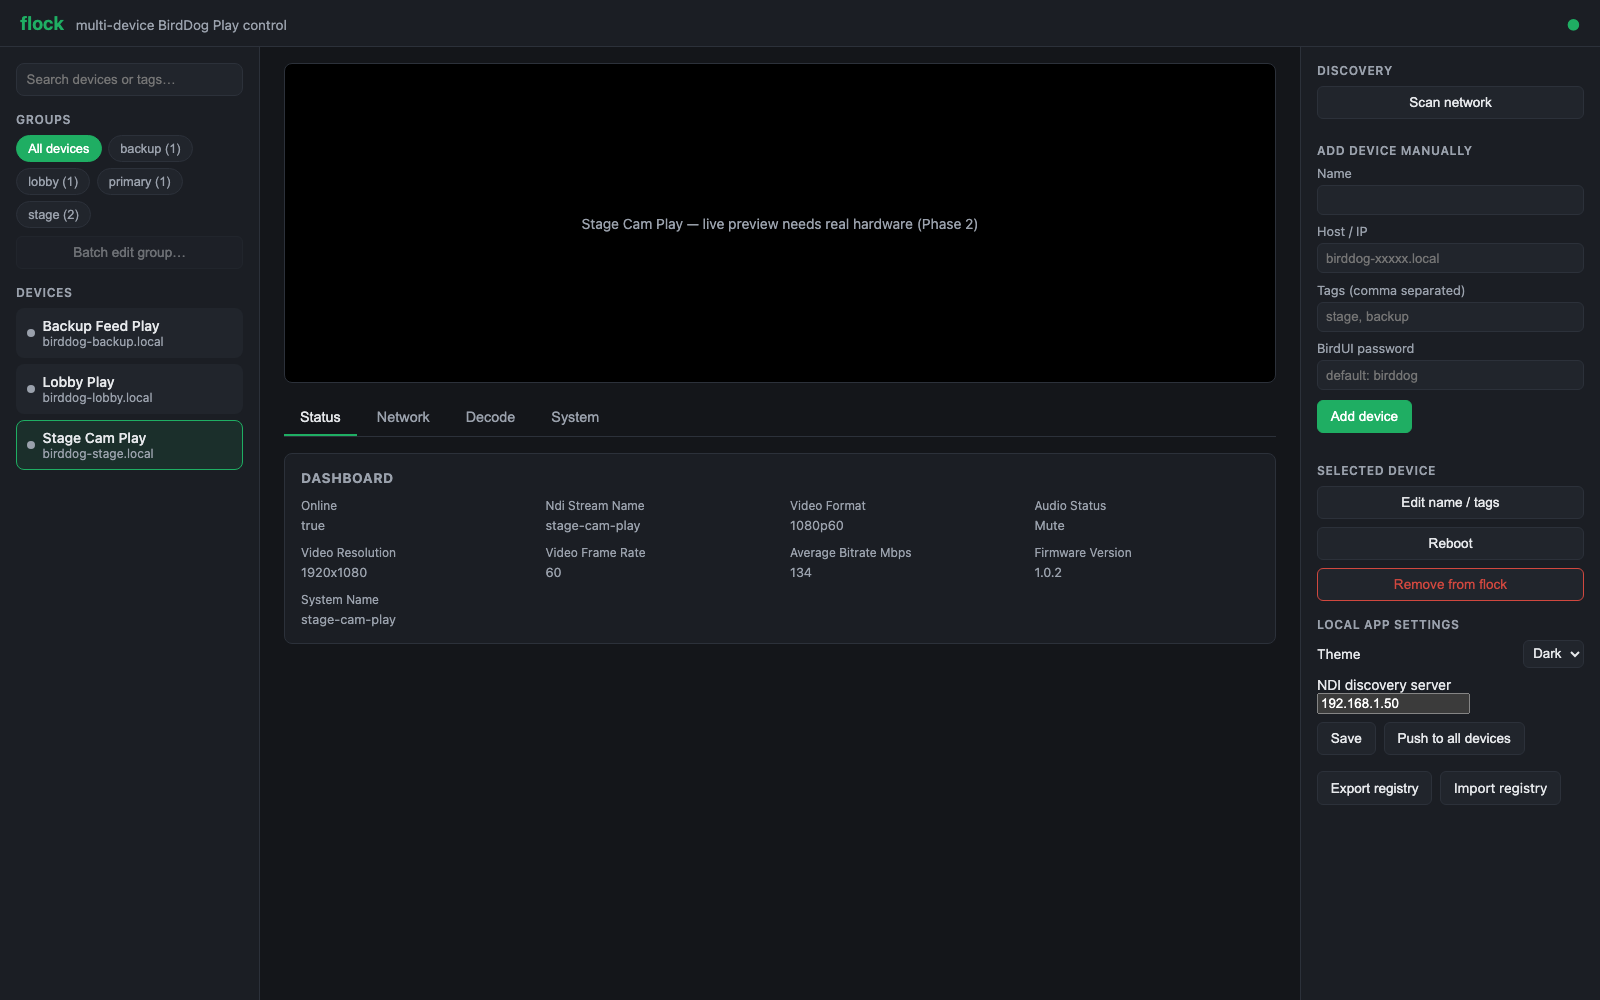
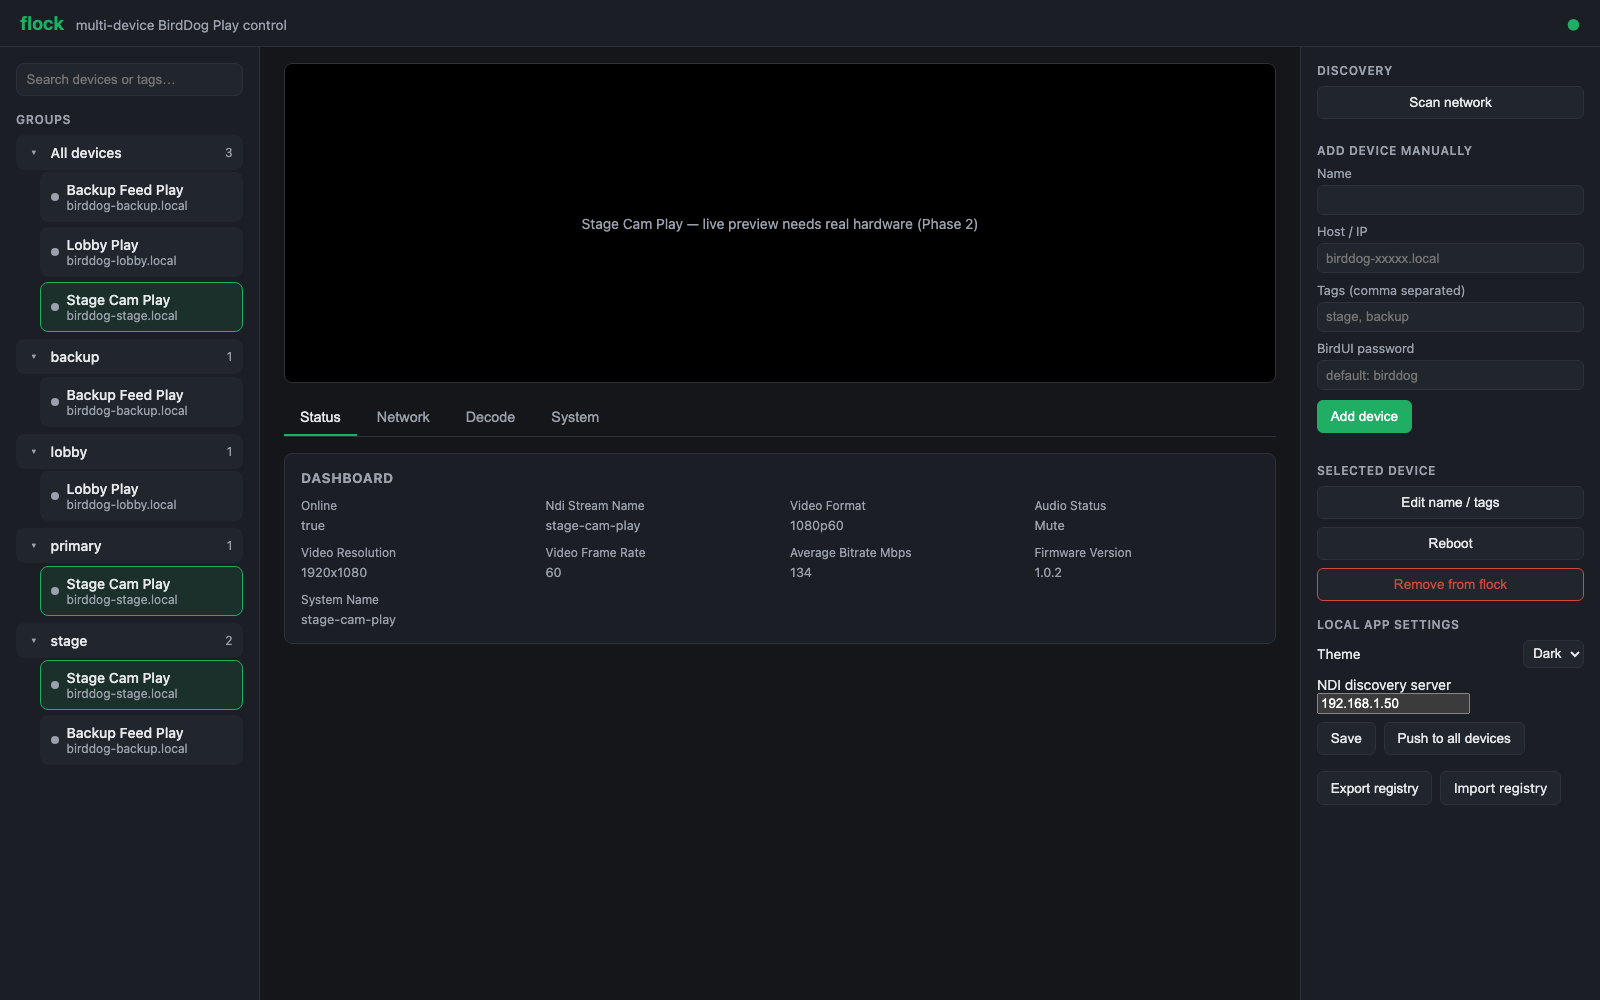
Replace group chips + batch-edit button with a nested group tree
The left panel now lists groups vertically, each with an expand arrow
revealing its members (a device in multiple groups appears nested
under each one - groups are derived from tags, not exclusive
membership). Clicking a group's header directly enters batch-edit for
that group in one step, replacing the old two-step flow (select a
chip, then click a separate "Batch edit" button). "All devices" is a
synthetic pseudo-group at the top whose header just clears selection
instead of offering to batch-edit it (it isn't a real tag).

Changed region(s): [[0.0, 0.124, 0.125, 0.775]]

diff --git a/crates/web/static/app.js b/crates/web/static/app.js
@@ -10,6 +10,9 @@
     batchMode: false,
     activeTab: "status",
     editingId: null,
+    // Tags present here are collapsed; everything else (including the
+    // synthetic "" / "All devices" group) starts expanded.
+    collapsedGroups: new Set(),
   };
 
   const el = (id) => document.getElementById(id);
@@ -83,8 +86,9 @@
 
   // ---------- rendering: left panel ----------
 
+  // Search-only now - group membership is handled by which section a
+  // device is nested under, not by filtering a single flat list.
   function matchesFilter(device) {
-    if (state.activeGroup && !device.tags.includes(state.activeGroup)) return false;
     if (!state.search) return true;
     const needle = state.search.toLowerCase();
     return (
@@ -94,53 +98,85 @@
     );
   }
 
-  function renderGroups() {
-    const container = el("groups-list");
+  // Nested view: groups listed vertically, each with an expand arrow to
+  // reveal its members. Clicking a group's header batch-edits that whole
+  // group in one step (no separate "batch edit" button); clicking the
+  // arrow only toggles expansion. A device in multiple groups appears
+  // nested under each one - that's the point, groups are derived from
+  // tags, not exclusive membership. "All devices" is a synthetic
+  // pseudo-group (not a real tag) so its header just clears any
+  // selection/batch-mode instead of offering to batch-edit it.
+  function renderGroupTree() {
+    const container = el("group-tree");
     const tags = Object.keys(state.groups).sort();
-    const chips = [`<button class="chip ${state.activeGroup === "" ? "chip-active" : ""}" data-group="">All devices</button>`];
+    const sections = [{ tag: "", label: "All devices", members: state.devices.map((d) => idStr(d.id)) }];
     for (const tag of tags) {
-      const active = state.activeGroup === tag ? "chip-active" : "";
-      chips.push(`<button class="chip ${active}" data-group="${escapeAttr(tag)}">${escapeHtml(tag)} (${state.groups[tag].length})</button>`);
+      sections.push({ tag, label: tag, members: state.groups[tag].map(idStr) });
     }
-    container.innerHTML = chips.join("");
-    container.querySelectorAll(".chip").forEach((btn) => {
-      btn.addEventListener("click", () => {
-        state.activeGroup = btn.dataset.group;
-        render();
+
+    const html = sections
+      .map(({ tag, label, members }) => {
+        const devices = members.map((id) => findDevice(id)).filter(Boolean).filter(matchesFilter);
+        if (state.search && devices.length === 0) return "";
+
+        const expanded = !state.collapsedGroups.has(tag);
+        const isActive = state.batchMode && state.activeGroup === tag && tag !== "";
+        const memberRows = devices
+          .map(
+            (d) => `
+          <div class="device-row ${idStr(d.id) === state.selectedId ? "selected" : ""}" data-id="${escapeAttr(idStr(d.id))}">
+            <span class="status-dot"></span>
+            <span class="name-block">
+              <span class="name">${escapeHtml(d.name)}</span>
+              <span class="host">${escapeHtml(d.host)}</span>
+            </span>
+          </div>`
+          )
+          .join("");
+
+        return `
+          <div class="group-section">
+            <div class="group-header ${isActive ? "active" : ""}" data-tag="${escapeAttr(tag)}">
+              <span class="expand-arrow ${expanded ? "expanded" : ""}" data-arrow="${escapeAttr(tag)}">▸</span>
+              <span class="group-name">${escapeHtml(label)}</span>
+              <span class="group-count">${devices.length}</span>
+            </div>
+            ${expanded ? `<div class="group-members">${memberRows || '<div class="devices-empty">No devices.</div>'}</div>` : ""}
+          </div>`;
+      })
+      .join("");
+
+    container.innerHTML = html || `<div class="devices-empty">No devices match.</div>`;
+
+    container.querySelectorAll(".expand-arrow").forEach((arrow) => {
+      arrow.addEventListener("click", (e) => {
+        e.stopPropagation();
+        const tag = arrow.dataset.arrow;
+        if (state.collapsedGroups.has(tag)) {
+          state.collapsedGroups.delete(tag);
+        } else {
+          state.collapsedGroups.add(tag);
+        }
+        renderGroupTree();
       });
     });
-
-    const batchBtn = el("batch-edit-btn");
-    if (state.activeGroup) {
-      batchBtn.disabled = false;
-      batchBtn.textContent = `Batch edit "${state.activeGroup}" (${(state.groups[state.activeGroup] || []).length})`;
-    } else {
-      batchBtn.disabled = true;
-      batchBtn.textContent = "Batch edit group…";
-    }
-  }
-
-  function renderDeviceList() {
-    const container = el("device-list");
-    const visible = state.devices.filter(matchesFilter);
-    if (visible.length === 0) {
-      container.innerHTML = `<div class="devices-empty">No devices match.</div>`;
-      return;
-    }
-    container.innerHTML = visible
-      .map(
-        (d) => `
-      <div class="device-row ${d.id === state.selectedId ? "selected" : ""}" data-id="${escapeAttr(idStr(d.id))}">
-        <span class="status-dot"></span>
-        <span class="name-block">
-          <span class="name">${escapeHtml(d.name)}</span>
-          <span class="host">${escapeHtml(d.host)}</span>
-        </span>
-      </div>`
-      )
-      .join("");
+    container.querySelectorAll(".group-header").forEach((header) => {
+      header.addEventListener("click", () => {
+        const tag = header.dataset.tag;
+        if (tag) {
+          startBatchEdit(tag);
+        } else {
+          state.selectedId = null;
+          state.batchMode = false;
+          render();
+        }
+      });
+    });
     container.querySelectorAll(".device-row").forEach((row) => {
-      row.addEventListener("click", () => selectDevice(row.dataset.id));
+      row.addEventListener("click", (e) => {
+        e.stopPropagation();
+        selectDevice(row.dataset.id);
+      });
     });
   }
 
@@ -162,8 +198,9 @@
     render();
   }
 
-  function startBatchEdit() {
-    if (!state.activeGroup) return;
+  function startBatchEdit(tag) {
+    if (!tag) return;
+    state.activeGroup = tag;
     state.batchMode = true;
     state.selectedId = null;
     if (state.activeTab === "status") state.activeTab = "network";
@@ -672,8 +709,7 @@
   // ---------- render orchestration ----------
 
   function render() {
-    renderGroups();
-    renderDeviceList();
+    renderGroupTree();
     renderCenter();
   }
 
@@ -739,7 +775,7 @@
 
     el("search").addEventListener("input", (e) => {
       state.search = e.target.value;
-      renderDeviceList();
+      renderGroupTree();
     });
 
     el("tab-bar").querySelectorAll(".tab-btn").forEach((btn) => {
@@ -749,7 +785,6 @@
       });
     });
 
-    el("batch-edit-btn").addEventListener("click", startBatchEdit);
     el("scan-btn").addEventListener("click", runScan);
     el("device-form").addEventListener("submit", submitDeviceForm);
     el("df-cancel").addEventListener("click", resetDeviceForm);

diff --git a/crates/web/static/style.css b/crates/web/static/style.css
@@ -97,17 +97,44 @@ body {
   color: var(--text);
 }
 
-.chip-list { display: flex; flex-wrap: wrap; gap: 0.4rem; }
-.chip {
+.group-tree { display: flex; flex-direction: column; gap: 0.3rem; overflow-y: auto; }
+.group-header {
+  display: flex;
+  align-items: center;
+  gap: 0.4rem;
+  padding: 0.5rem 0.6rem;
+  border-radius: var(--radius);
+  border: 1px solid transparent;
   background: var(--bg-card);
-  border: 1px solid var(--border);
-  color: var(--text-dim);
-  border-radius: 999px;
-  padding: 0.3rem 0.7rem;
-  font-size: 0.8rem;
   cursor: pointer;
 }
-.chip.chip-active { background: var(--accent); border-color: var(--accent); color: #fff; }
+.group-header:hover { border-color: var(--border); }
+.group-header.active { border-color: var(--accent); background: rgba(31, 174, 99, 0.12); }
+.group-header .expand-arrow {
+  width: 1.1rem;
+  flex-shrink: 0;
+  text-align: center;
+  color: var(--text-dim);
+  cursor: pointer;
+  transition: transform 0.15s;
+}
+.group-header .expand-arrow.expanded { transform: rotate(90deg); }
+.group-header .group-name {
+  font-weight: 500;
+  flex: 1;
+  overflow: hidden;
+  text-overflow: ellipsis;
+  white-space: nowrap;
+}
+.group-header .group-count { color: var(--text-dim); font-size: 0.75rem; flex-shrink: 0; }
+.group-members {
+  display: flex;
+  flex-direction: column;
+  gap: 0.3rem;
+  padding-left: 1.5rem;
+  margin-top: 0.15rem;
+  margin-bottom: 0.15rem;
+}
 
 .device-list { display: flex; flex-direction: column; gap: 0.4rem; overflow-y: auto; }
 .device-row {

diff --git a/crates/web/static/index.html b/crates/web/static/index.html
@@ -12,17 +12,9 @@
     <aside id="left-panel">
       <input id="search" type="text" placeholder="Search devices or tags…">
 
-      <div class="panel-section">
-        <div class="panel-heading">Groups</div>
-        <div id="groups-list" class="chip-list">
-          <button class="chip chip-active" data-group="">All devices</button>
-        </div>
-        <button id="batch-edit-btn" class="btn" disabled>Batch edit group…</button>
-      </div>
-
       <div class="panel-section grow">
-        <div class="panel-heading">Devices</div>
-        <div id="device-list" class="device-list"></div>
+        <div class="panel-heading">Groups</div>
+        <div id="group-tree" class="group-tree"></div>
       </div>
     </aside>
 

diff --git a/README.md b/README.md
@@ -22,11 +22,11 @@ group at once.
 *Real screenshots of flock running locally against the three seeded
 `device-mock` devices (see [Status](#status)) — not mockups.*
 
-**Overview** — device list grouped by tag on the left (a device can sit in
-more than one group), preview + settings in the center, discovery/add/local
-settings on the right:
+**Overview** — a nested group tree on the left (a device can sit in more
+than one group, and appears under each), preview + settings in the center,
+discovery/add/local settings on the right:
 
-![flock overview: three devices grouped by tag, no device selected yet](docs/screenshots/overview.png)
+![flock overview: nested group tree with devices under All devices/backup/lobby/primary/stage, no device selected yet](docs/screenshots/overview.png)
 
 **Status** tab — the per-device dashboard:
 
@@ -46,10 +46,12 @@ audio, and tally (Play is decode-only, so there is no Encode tab):
 
 ![flock System tab showing firmware version and Access Manager fields](docs/screenshots/system.png)
 
-**Batch edit** — select a group chip, click "Batch edit", and every field
-starts blank/"leave unchanged"; only fields you actually fill in are sent,
-merged into each member device's own current settings rather than
-overwriting the whole group with a shared template:
+**Batch edit** — groups are a nested tree in the left panel; click a
+group's header to batch-edit every member at once, or expand it to drill
+into an individual device. Every field starts blank/"leave unchanged"; only
+fields you actually fill in are sent, merged into each member device's own
+current settings rather than overwriting the whole group with a shared
+template:
 
 ![flock batch-editing the Network tab for a two-device group, all fields blank except one changed field](docs/screenshots/batch.png)
 
@@ -68,10 +70,13 @@ overwriting the whole group with a shared template:
   (Dashboard), Network, Decode (NDI source + failover), and System
   (password/firmware/Access Manager/UI mode) — every field visible directly
   in its tab, nothing behind a submenu.
-- **Batch edit by group**: apply a Network/Decode/System change to every
-  device in a group at once. Blank fields mean "leave unchanged" — a batch
-  save merges into each device's own current settings rather than
-  clobbering the whole group with one shared template.
+- **Nested groups, one click to batch-edit**: groups are a vertical tree in
+  the left panel (a device can sit in more than one, appearing under each);
+  click a group's header to apply a Network/Decode/System change to every
+  member at once, or expand it to drill into an individual device. Blank
+  fields mean "leave unchanged" — a batch save merges into each device's own
+  current settings rather than clobbering the whole group with one shared
+  template.
 - **NDI Discovery Server, fleet-wide**: set it once in Local App Settings and
   push it to every registered Play's own Network settings in one click
   (flock can't itself query a Discovery Server — no public protocol spec —

diff --git a/docs/architecture.md b/docs/architecture.md
@@ -195,9 +195,26 @@ Matrix) that don't apply to a Play converter either. Every field for the
 active tab renders flat in one bordered panel; there is no nested submenu
 anywhere in the UI, mirroring the user's explicit requirement.
 
+## Left panel: nested group tree
+
+Groups are a vertical tree, not a horizontal chip list - each group header
+has an expand arrow revealing its members (a device in multiple groups
+appears nested under each one, since groups are derived from tags, not
+exclusive membership; see `Registry::groups()` above). Clicking a group's
+header directly enters batch-edit for that group in one step; clicking the
+arrow only toggles expansion without changing selection; clicking a nested
+device selects it for the normal single-device view. "All devices" is a
+synthetic pseudo-group (not a real tag) at the top - its header just clears
+selection/batch-mode instead of offering to batch-edit it, since there's no
+tag to batch against. All of this lives in one function,
+`renderGroupTree()` in `crates/web/static/app.js`, replacing an earlier
+two-step design (a horizontal chip list to filter, plus a separate "Batch
+edit" button) that took an extra click and didn't show group membership at
+a glance.
+
 ## Batch edit
 
-Selecting a group and clicking "Batch edit" swaps the center panel into a
+Clicking a group's header (see above) swaps the center panel into a
 group-scoped version of the Network/Decode/System tabs (Status is dropped -
 it's inherently per-device). Every field starts blank/"leave unchanged"
 rather than prefilled from any one device, since prefilling from a single
